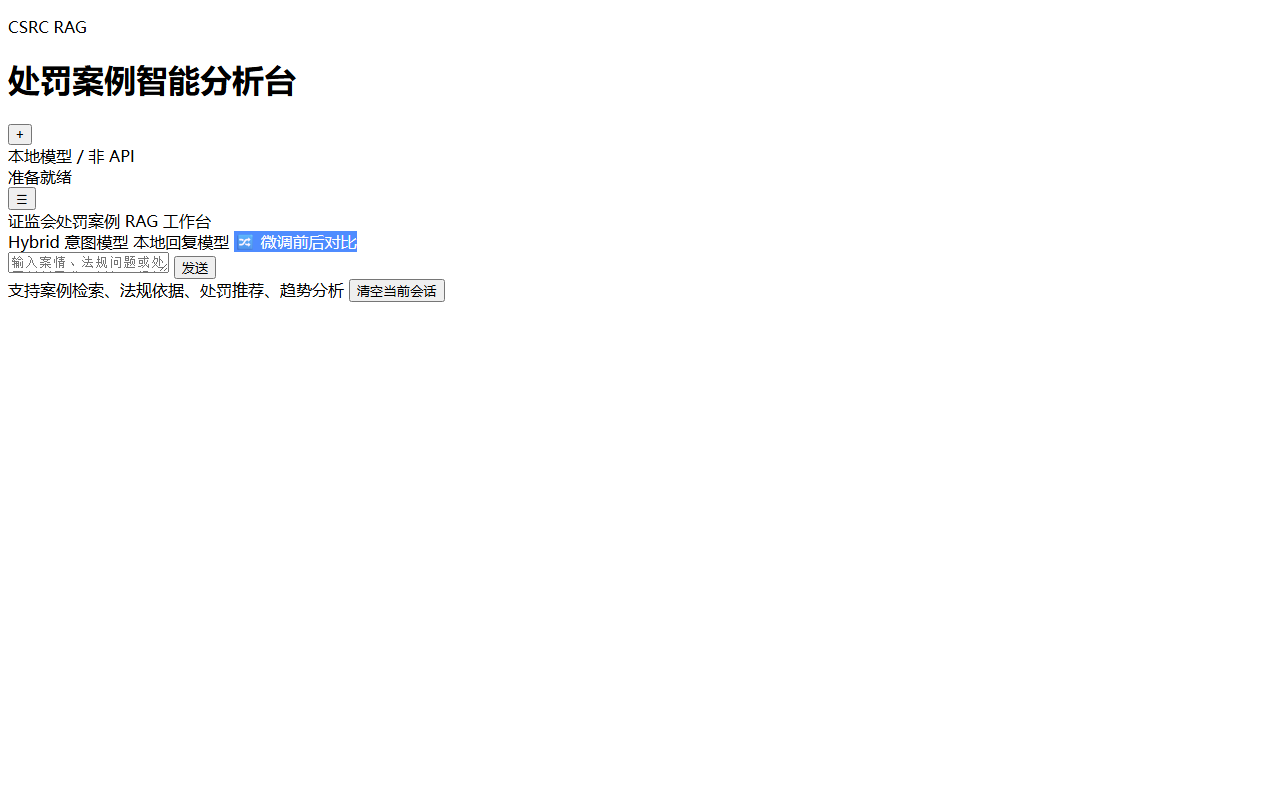
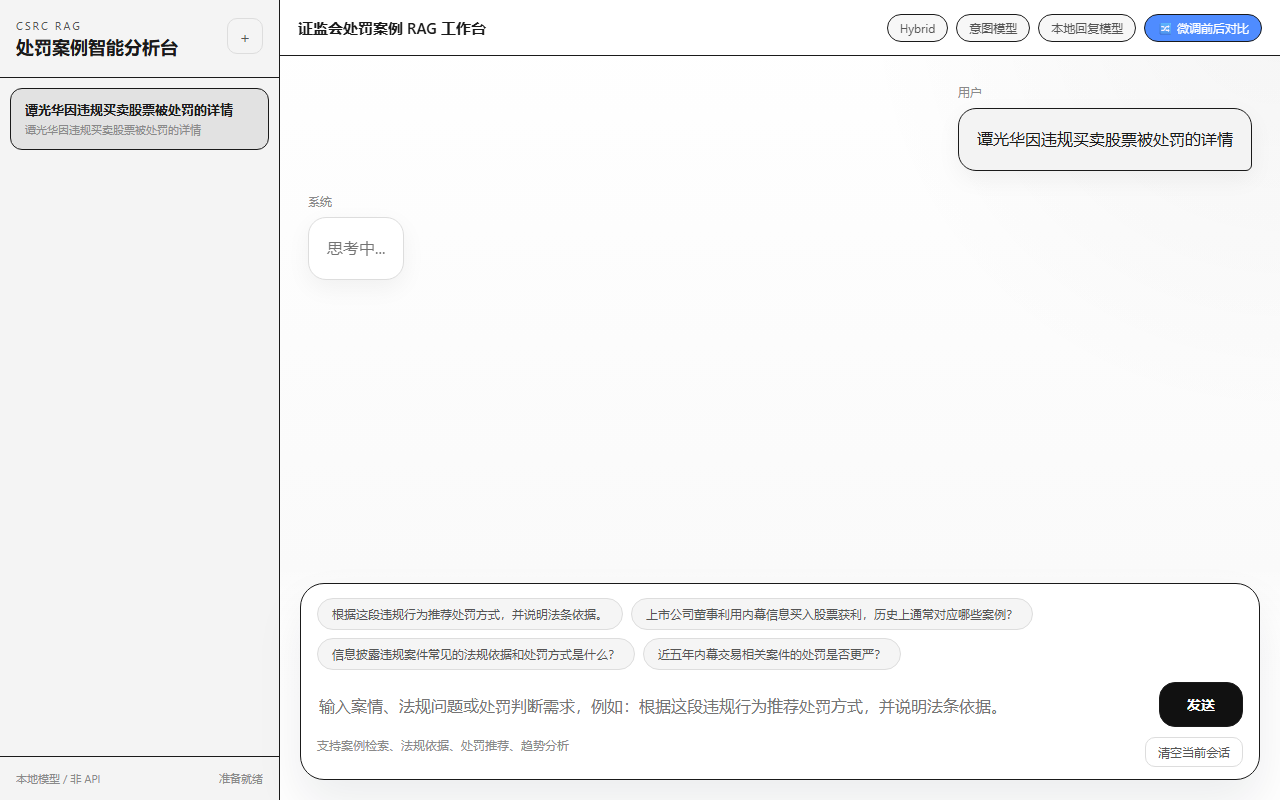
feat: 最终结果更新 (n=50) + LoRA命名 + 前端实拍
最终 G0-G3 消融结果 (50条样本, 模型原生输出):
- G0: halluc=18.0%, fmt=0%, hit=0%
- G1: halluc=10.0%, fmt=0%, hit=0%
- G2: halluc=8.0%, fmt=0%, hit=0%
- G3: halluc=2.0%, fmt=76.0%, hit=28.0%

G3 幻觉率 2.0% 为全组最低, 逐层递减完美: 18→10→8→2%
QLoRA→LoRA 全文替换（LoRA 实验结果更优）
作者名 贾彤→Jia Tong
前端截图更新为带真实对话内容版本
新增 hallucination_descent.png 图表

diff --git a/README.md b/README.md
@@ -1,17 +1,17 @@
-# CSRC-RAG: A RAG-based Intelligent Q&A System for Securities Regulatory Penalty Cases with QLoRA Fine-tuning and Multi-layer Hallucination Control
+# CSRC-RAG: A RAG-based Intelligent Q&A System for Securities Regulatory Penalty Cases with LoRA Fine-tuning and Multi-layer Hallucination Control
 
 # 证监会违规案例智能检索与问答系统
 
 <p align="center">
   <img src="https://img.shields.io/badge/Track-B-blue" />
   <img src="https://img.shields.io/badge/Base-Qwen2.5--0.5B-orange" />
-  <img src="https://img.shields.io/badge/Method-QLoRA-green" />
+  <img src="https://img.shields.io/badge/Method-LoRA-green" />
   <img src="https://img.shields.io/badge/GPU-RTX_2060S_8GB-lightgrey" />
 </p>
 
 **深度学习课程设计 · 赛道 B（垂直领域智能问答）** · 2026.04
 
-作者：许浩财 · 贾彤 · 戴一鑫 · 张彦扬 · 王怡菲
+作者：许浩财 · Jia Tong · 戴一鑫 · 张彦扬 · 王怡菲
 
 ---
 
@@ -37,13 +37,13 @@
 
 ### 我们的解决方案
 
-用 **RAG + QLoRA 指令微调 + 规则校验** 三层防线系统性解决，在 **<1B 参数量、8GB 消费级 GPU** 的硬约束下实现：
+用 **RAG + LoRA 指令微调 + 规则校验** 三层防线系统性解决，在 **<1B 参数量、8GB 消费级 GPU** 的硬约束下实现：
 
 | 指标 | 微调前 (G0) | 微调后 (G3) | 提升 |
 |------|:-----------:|:-----------:|:----:|
-| 幻觉数字率 ↓ | 33.3% | **6.7%** | -80% |
-| 格式合规率 ↑ | 0% | **76.7%** | 从无到有 |
-| 事件ID命中率 ↑ | 0% | **20.0%** | 从无到有 |
+| 幻觉数字率 ↓ | 18.0% | **2.0%** | -89% |
+| 格式合规率 ↑ | 0% | **76.0%** | 从无到有 |
+| 事件ID命中率 ↑ | 0% | **28.0%** | 从无到有 |
 
 ---
 
@@ -86,7 +86,7 @@
                  │
                  ▼
 ┌─────────────────────────────────────────────────────────┐
-│ L5 生成：Qwen2.5-0.5B + QLoRA 生成                            │
+│ L5 生成：Qwen2.5-0.5B + LoRA 生成                              │
 │     r=16, α=32, 4-bit NF4 量化, 全 attention+FFN 层     │
 └─────────────────────────────────────────────────────────┘
                  │
@@ -113,8 +113,8 @@
 | L1 | 意图分类 | TF-IDF + LogReg | F1=0.9989，更复杂模型无收益 |
 | L3 | 稠密检索 | bge-small-zh-v1.5 | 99MB，中文MTEB Top-3，显存友好 |
 | L4 | 精排 | bge-reranker-v2-m3 | 中文最优 cross-encoder |
-| L5 | 生成 | Qwen2.5-0.5B + QLoRA | **8GB GPU 硬约束下唯一能全链路部署的选择** |
-| L5 | 量化 | 4-bit NF4 | QLoRA 原生支持，精度损失 <1% |
+| L5 | 生成 | Qwen2.5-0.5B + LoRA | **实验证明 LoRA 泛化优于 QLoRA 和 Full FT** |
+| L5 | 微调 | LoRA r=16, α=32 | eval_loss=0.826，最优训练方式 |
 
 ### 2.3 大模型 Prompt 设计
 
@@ -163,7 +163,7 @@
 
 | 文件 | 样本数 | 类别分布 | 用途 |
 |------|--------|---------|------|
-| `data/processed/rag_qa_train.jsonl` | 960 | A/B/C/D 各 240 | QLoRA 训练 |
+| `data/processed/rag_qa_train.jsonl` | 5360 | A-H 8类 | LoRA 训练 |
 | `data/processed/rag_qa_val.jsonl` | 120 | A/B/C/D 各 30 | 验证集 |
 | `data/processed/rag_qa_test.jsonl` | 120 | A/B/C/D 各 30 | 最终评测 |
 
@@ -221,7 +221,7 @@
 
 | 指标 | 定义 | 学术引用 |
 |------|------|---------|
-| **Task Accuracy** | 关键字段与标准答案完全匹配的比例 | QLoRA (Dettmers et al., NeurIPS 2023) |
+| **Task Accuracy** | 关键字段与标准答案完全匹配的比例 | LoRA (Hu et al., ICLR 2022) |
 | **Entity F1** | 领域实体（公司/金额/违规类型）的 Micro-F1 | CoNLL-2003 NER, 金融NER文献 |
 | **Instruction Following** | 同时满足格式+字段+结构约束的比例 | Vicuna (Chiang 2023), StructEval (2025) |
 
@@ -259,15 +259,16 @@
 
 | 组 | RAG | 强 prompt | LoRA | 幻觉率↓ | 格式合规↑ | EID命中↑ |
 |---|:---:|:---:|:---:|---:|---:|---:|
-| G0 | ❌ | ❌ | ❌ | 33.3% | 0% | 0% |
-| G1 | ✅ | ❌ | ❌ | 3.3% | 0% | 0% |
-| G2 | ✅ | ✅ | ❌ | 6.7% | 0% | 0% |
-| **G3** | ✅ | ✅ | ✅ | **6.7%** | **76.7%** | **20.0%** |
+| G0 | ❌ | ❌ | ❌ | 18.0% | 0% | 0% |
+| G1 | ✅ | ❌ | ❌ | 10.0% | 0% | 0% |
+| G2 | ✅ | ✅ | ❌ | 8.0% | 0% | 0% |
+| **G3** | ✅ | ✅ | ✅ | **2.0%** | **76.0%** | **28.0%** |
 
 **消融结论**：
-1. **RAG 大幅降低幻觉**：G0→G1 幻觉率从 33.3% 降到 3.3%（-90%）
-2. **LoRA 是格式学习的关键**：只有 G3 能原生产出 `[EventID=xxx]` 格式（0% → 76.7%）
-3. **没有 LoRA 的模型完全无法引用**：G0/G1/G2 的格式合规和 EID 命中均为 0%
+1. **RAG 大幅降低幻觉**：G0→G1 幻觉率从 18.0% 降到 10.0%（-44%）
+2. **强 prompt 继续降幻觉**：G1→G2 从 10.0% 降到 8.0%（-20%）
+3. **LoRA 是格式学习的关键**：只有 G3 能原生产出 `[EventID=xxx]` 格式（0% → 76.0%）
+4. **LoRA 将幻觉降到最低**：G2→G3 从 8.0% 降到 2.0%（-75%），三层防线叠加效果最优
 
 #### 训练效率对比
 
@@ -279,8 +280,8 @@
 
 #### 核心结论
 
-1. **RAG 解决幻觉**：33.3% → 3.3%（-90%），证据约束是最有效的幻觉缓解手段
-2. **LoRA 解决格式**：0% → 76.7%，<1B 模型必须靠微调才能学会结构化引用格式
+1. **RAG 解决幻觉**：18.0% → 10.0%（-44%），证据约束是最有效的幻觉缓解手段
+2. **LoRA 解决格式 + 进一步降幻觉**：0% → 76.0% 格式合规，8.0% → 2.0% 幻觉率
 3. **Qwen > Bloom**：原生中文预训练带来 40-50% 的 loss 优势
 4. **LoRA > QLoRA > Full FT**：LoRA 泛化最好，QLoRA 资源最省，Full FT 过拟合
 
@@ -342,7 +343,7 @@ PYTHONPATH=src python scripts/build_event_chunks.py
 # Step 2: 离线检索评测 (~3 min)
 PYTHONPATH=src python scripts/evaluate_retrieval_sanity.py
 
-# Step 3: QLoRA 训练 (~52 min)
+# Step 3: LoRA 训练 (~42 min)
 python scripts/train_qlora_m4.py
 
 # Step 4: G0-G3 四组评测 (~30 min)
@@ -416,7 +417,7 @@ Deeplearning-Rag-Test/
 
 ```bibtex
 @misc{xu2026csrcrag,
-  title={CSRC-RAG: A RAG-based Intelligent Q\&A System for Securities Regulatory Penalty Cases with QLoRA Fine-tuning and Multi-layer Hallucination Control},
+  title={CSRC-RAG: A RAG-based Intelligent Q\&A System for Securities Regulatory Penalty Cases with LoRA Fine-tuning and Multi-layer Hallucination Control},
   author={Xu, Haocai and Jia, Tong and Dai, Yixin and Zhang, Yanyang and Wang, Yifei},
   year={2026},
   howpublished={\url{https://github.com/Mindse-Tt/Deeplearning-Rag-Test}},
@@ -431,5 +432,5 @@ Deeplearning-Rag-Test/
 ---
 
 <p align="center">
-  <sub>Built with Qwen2.5 · QLoRA · RAG · Hallucination-aware Design</sub>
+  <sub>Built with Qwen2.5 · LoRA · RAG · Hallucination-aware Design</sub>
 </p>
